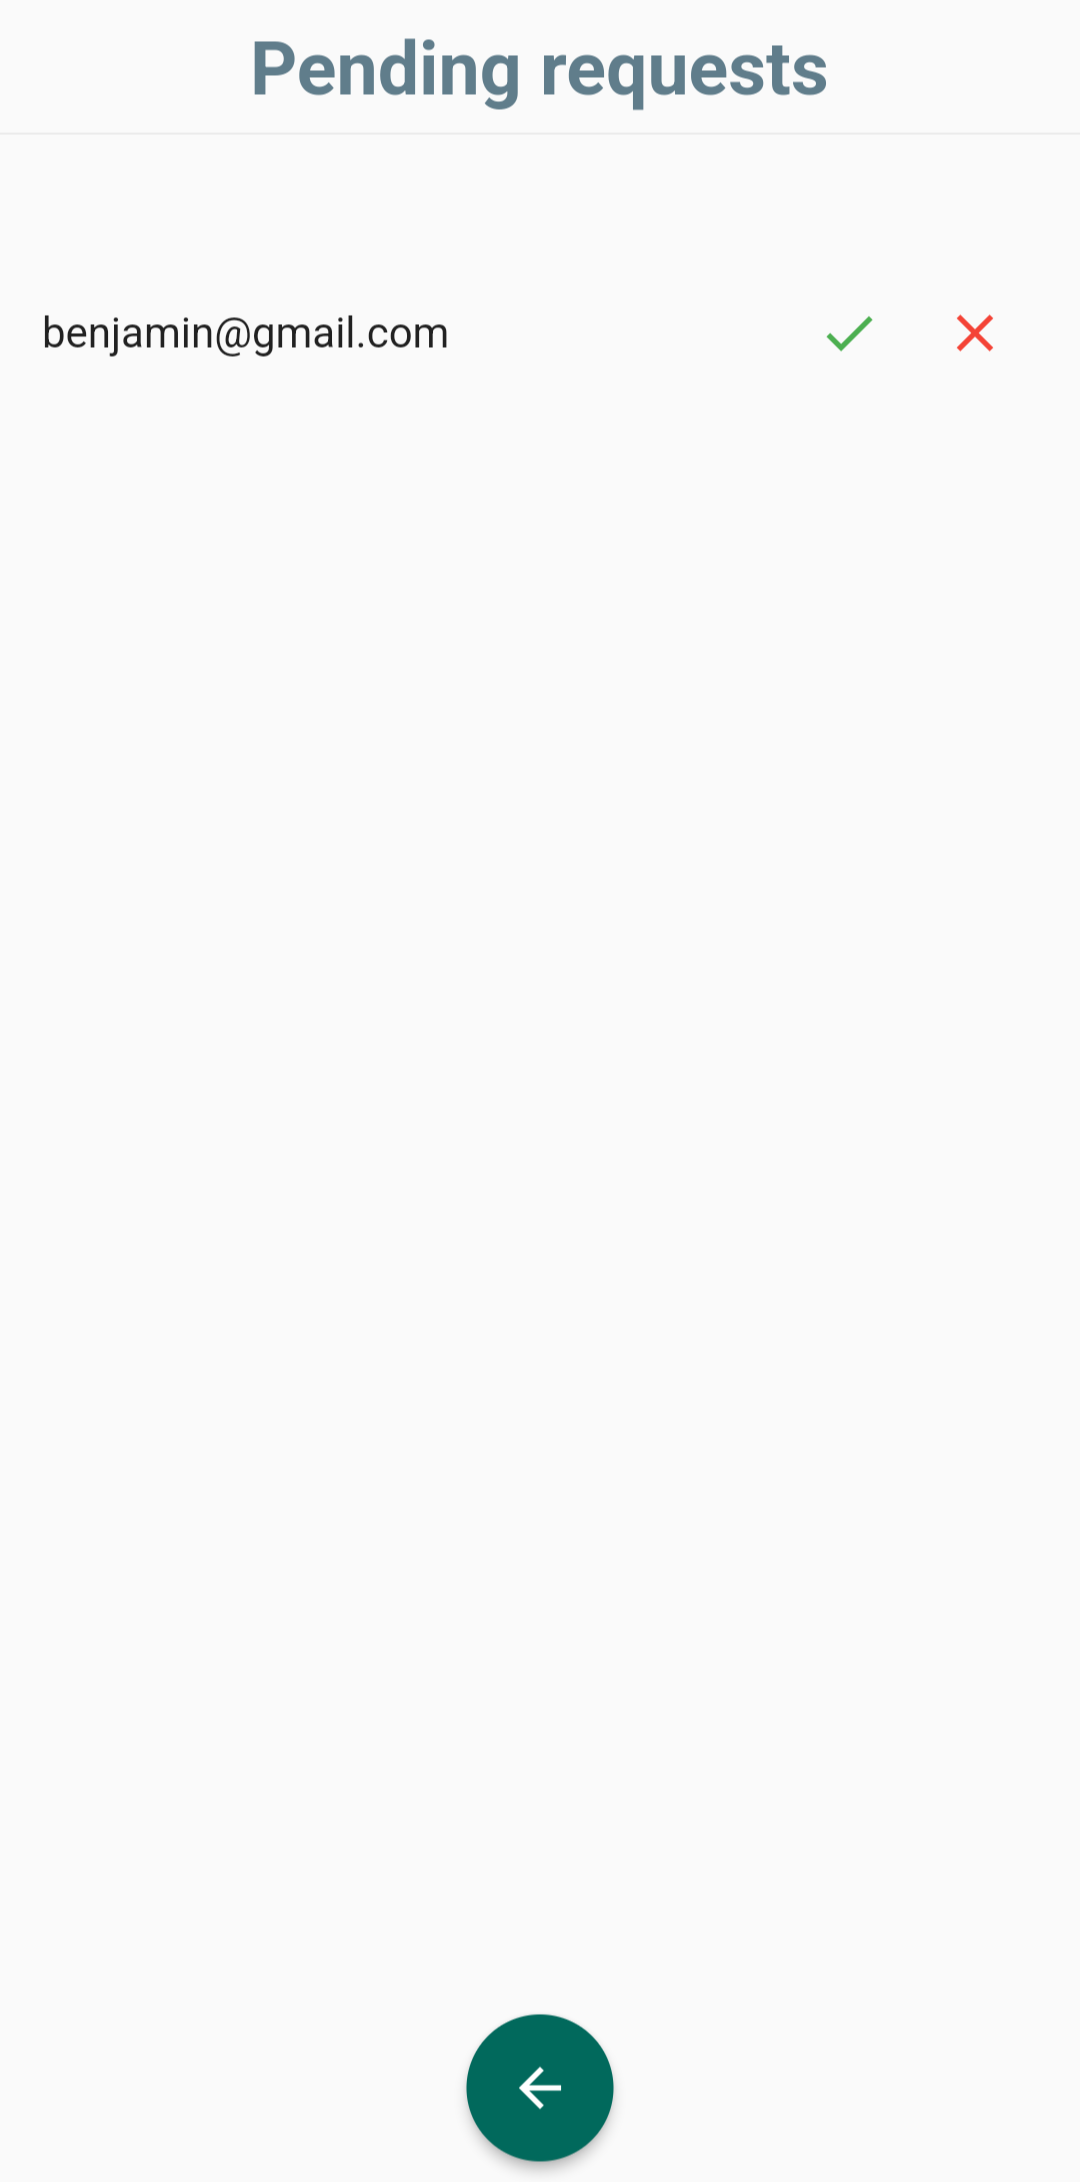
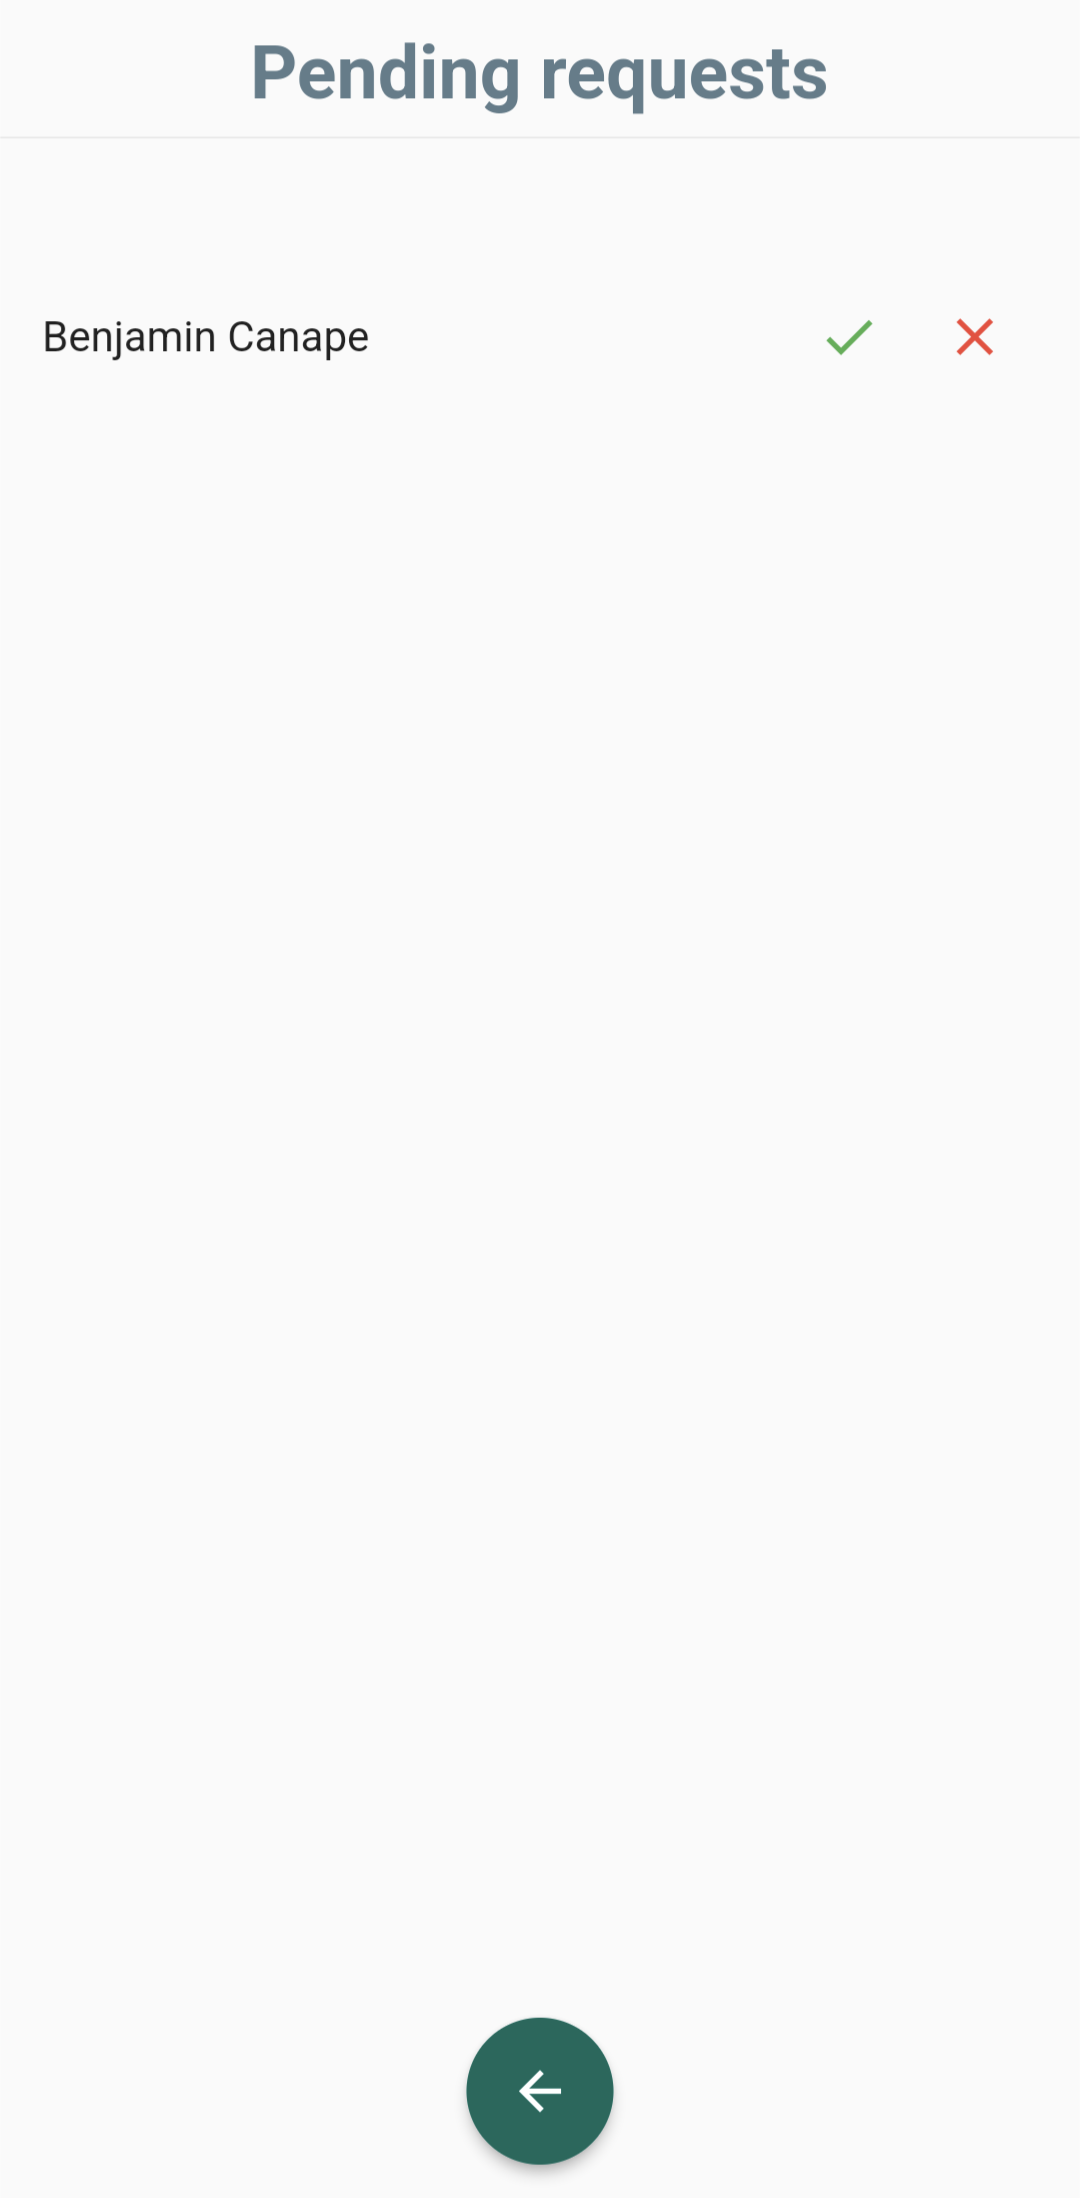
user name on pending request list

diff --git a/lib/presentation/community/widgets/pending_request_list.dart b/lib/presentation/community/widgets/pending_request_list.dart
@@ -21,7 +21,11 @@ class PendingRequestsListWidget extends StatelessWidget {
       itemBuilder: (context, index) {
         final user = users[index];
         return ListTile(
-            title: Text(user.username),
+            title: Text(
+              user.firstname != null && user.lastname != null
+                  ? '${user.firstname} ${user.lastname}'
+                  : user.username,
+            ),
             trailing: AcceptRefuseWidget(
                 userId: user.id, onAccept: onAccept, onReject: onReject));
       },
